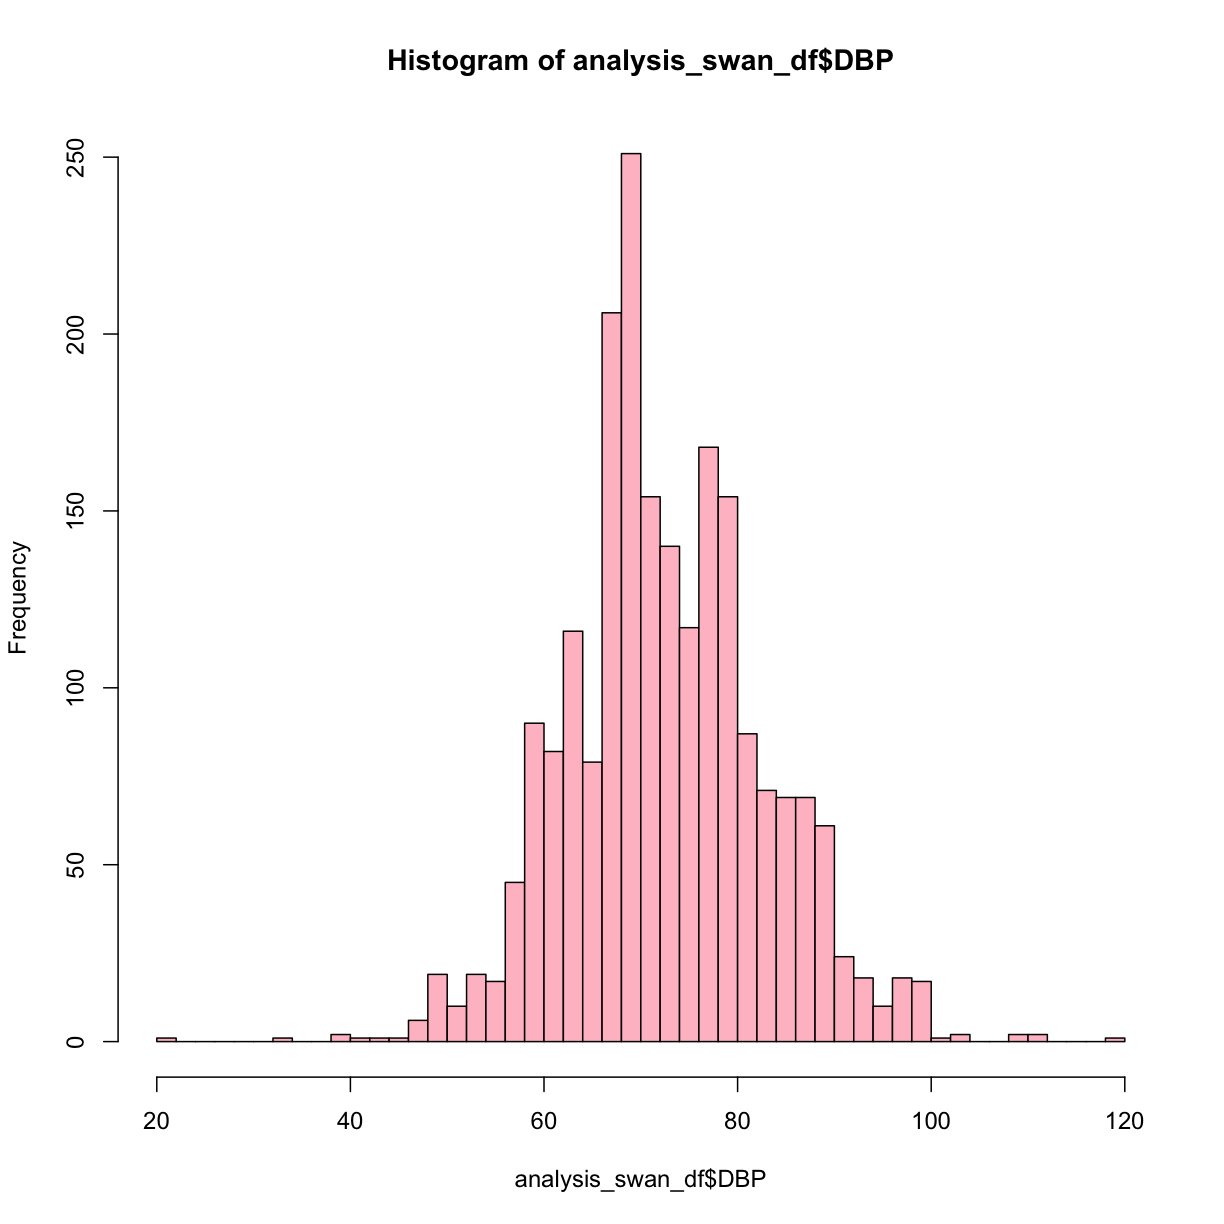
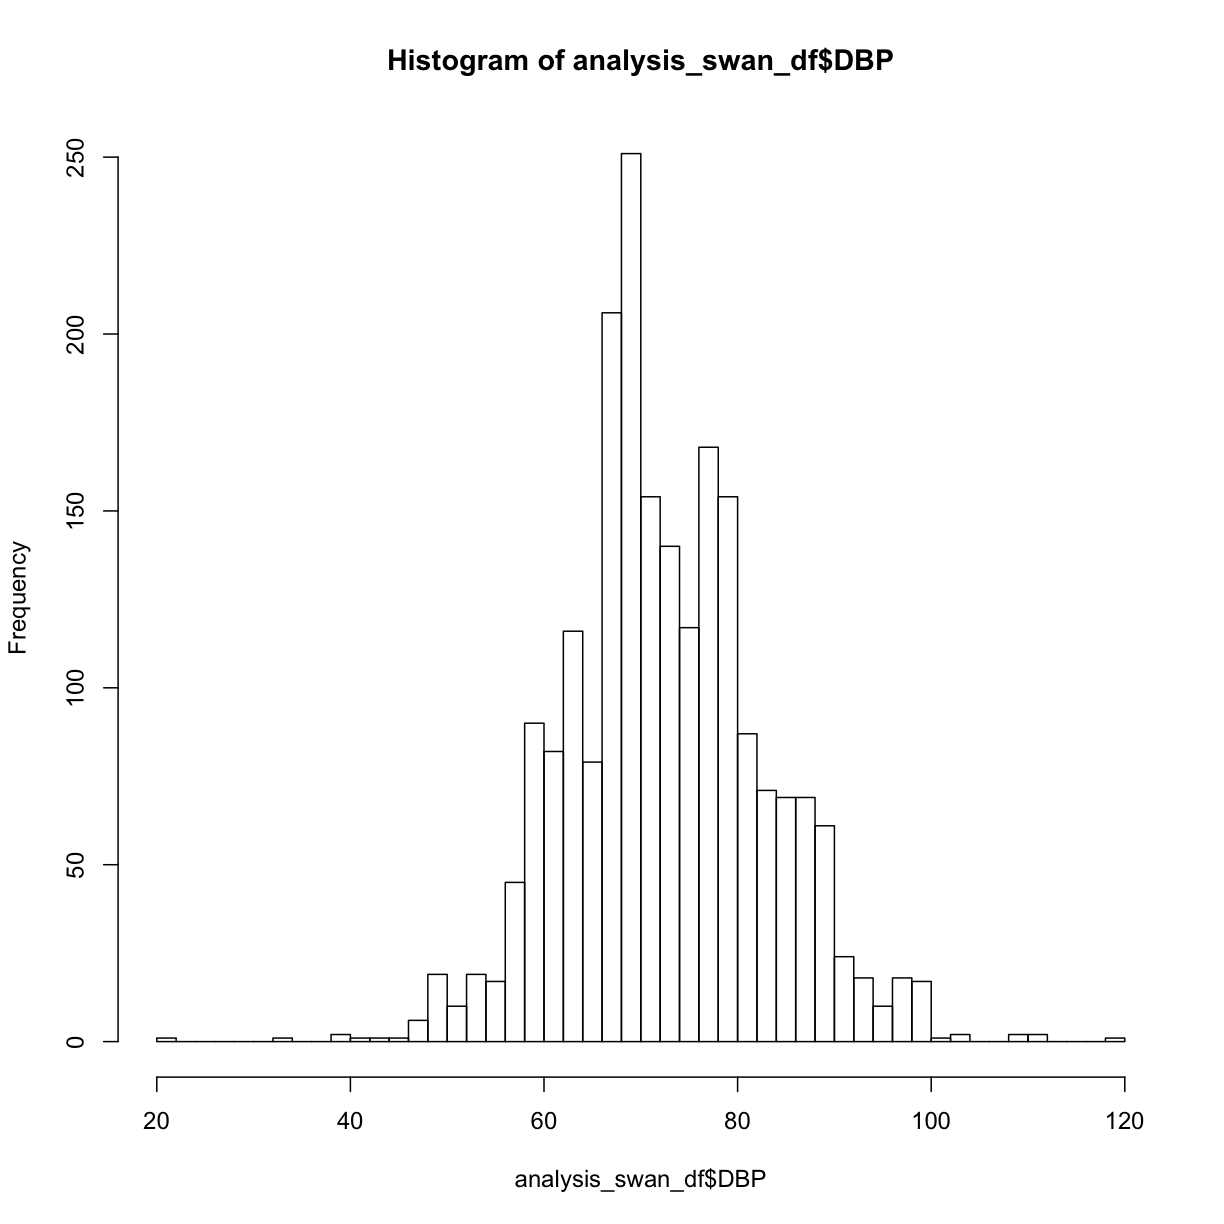
regression assumptions, scatter plot

Changed region(s): [[0.3105, 0.1242, 0.7761, 0.8693]]

diff --git a/_episodes/07-exploring-continuous-data.md b/_episodes/07-exploring-continuous-data.md
@@ -20,6 +20,23 @@ source: Rmd
 
 
 
+# Continuous Variables and Linear Regression
+
+#TODO:  Better wording
+
+To perform an analysis that assesses whether one or more predictor variables might explain a response or outcome variable, we need to check whether the data meets certain assumptions if we'd like to use linear regression to prove our hypothesis about the relationship between the predictors and the outcome.
+
+The assumptions that the data must meet in order to build a valid linear regression model are:
+1. A linear relationship between each continuous predictor (X), and the outcome variable (Y)
+2. Each continuous predictor has a normal distribution
+3. No collinearity between predictors
+4. No auto-correlation (residuals are not related to each other)
+5. Homoscedasticity (no pattern in the residuals)
+
+In this episode, we'll be using R to investigate these assumptions.
+
+# Checking normality
+
 ## Getting to know our data
 
 One of the first ways to start getting to know our data is to get some basic statistics.  Let's see what the `summary()` function does:
@@ -164,7 +181,7 @@ Let's try passing `hist()` a single number giving the number of cells or bins:
 
 
 ~~~
-hist(analysis_swan_df$DBP, breaks = 50, col = 'pink')
+hist(analysis_swan_df$DBP, breaks = 50)
 ~~~
 {: .language-r}
 
@@ -184,39 +201,9 @@ hist(analysis_swan_df$DBP, breaks = 50, col = 'pink')
 > > ~~~
 > > hist(analysis_swan_df$DBP, breaks = 50, main = 'Title goes here',
 > >      xlab = 'Diastolic blood pressure (mmHg)', ylab = 'Frequency',
-> >      color = 'pink')
+> >      col = 'pink')
 > > ~~~
 > > {: .language-r}
-> > 
-> > 
-> > 
-> > ~~~
-> > Warning in plot.window(xlim, ylim, "", ...): "color" is not a graphical
-> > parameter
-> > ~~~
-> > {: .error}
-> > 
-> > 
-> > 
-> > ~~~
-> > Warning in title(main = main, sub = sub, xlab = xlab, ylab = ylab, ...):
-> > "color" is not a graphical parameter
-> > ~~~
-> > {: .error}
-> > 
-> > 
-> > 
-> > ~~~
-> > Warning in axis(1, ...): "color" is not a graphical parameter
-> > ~~~
-> > {: .error}
-> > 
-> > 
-> > 
-> > ~~~
-> > Warning in axis(2, ...): "color" is not a graphical parameter
-> > ~~~
-> > {: .error}
 > > 
 > > <img src="../fig/rmd-07-unnamed-chunk-8-1.png" title="plot of chunk unnamed-chunk-8" alt="plot of chunk unnamed-chunk-8" width="612" style="display: block; margin: auto;" />
 > >
@@ -224,15 +211,60 @@ hist(analysis_swan_df$DBP, breaks = 50, col = 'pink')
 {: .challenge}
 
 
-# TODO: Show horizontal
+#TODO: Show horizontal
 
 
 ~~~
-boxplot(analysis_swan_df$Age)
+boxplot(analysis_swan_df$Glucose)
 ~~~
 {: .language-r}
 
 <img src="../fig/rmd-07-unnamed-chunk-9-1.png" title="plot of chunk unnamed-chunk-9" alt="plot of chunk unnamed-chunk-9" width="612" style="display: block; margin: auto;" />
+
+# Plotting the relationship between two continuous variables
+
+We would now like to verify that any relationship between each X and Y is roughly linear.  We can use the `plot()` function in R to quickly create a scatterplot.
+
+
+~~~
+plot(y = analysis_swan_df$Glucose, x = analysis_swan_df$BMI)
+~~~
+{: .language-r}
+
+<img src="../fig/rmd-07-unnamed-chunk-10-1.png" title="plot of chunk unnamed-chunk-10" alt="plot of chunk unnamed-chunk-10" width="612" style="display: block; margin: auto;" />
+
+
+In this case, we see there may be some outliers where Glucose levels are high.  Given that a glucose level of over 126 mg/dL is considered Type II Diabetic, we can take a look at the scatterplot with those data excluded.
+
+We'll make a subset, then redraw the scatterplot:
+
+
+~~~
+swan_non_diabetic <- analysis_swan_df %>% filter(Glucose < 126)
+~~~
+{: .language-r}
+
+
+
+~~~
+Error in analysis_swan_df %>% filter(Glucose < 126): could not find function "%>%"
+~~~
+{: .error}
+
+
+
+~~~
+plot(y = swan_non_diabetic$Glucose, x = swan_non_diabetic$BMI)
+~~~
+{: .language-r}
+
+
+
+~~~
+Error in plot(y = swan_non_diabetic$Glucose, x = swan_non_diabetic$BMI): object 'swan_non_diabetic' not found
+~~~
+{: .error}
+
 
 
 

diff --git a/_episodes/06-selecting-variables.md b/_episodes/06-selecting-variables.md
@@ -1,7 +1,7 @@
 ---
 # Please do not edit this file directly; it is auto generated.
 # Instead, please edit 06-selecting-variables.md in _episodes_rmd/
-title: "Selecting and Renaming Variables"
+title: "Selecting and Renaming Variables, and Subsetting"
 teaching: 15
 exercises: 2
 questions:
@@ -14,6 +14,7 @@ objectives:
 keypoints:
 - "Use `select()` to create a subset of a data frame based on columns"
 - "Use `rename()` to rename columns"
+- "Use `filter()` to filter rows"
 source: Rmd
 ---
 
@@ -147,3 +148,5 @@ str(analysis_swan_df)
 {: .challenge}
 
 
+
+#TODO:  As its own episode, show use of `filter()`
